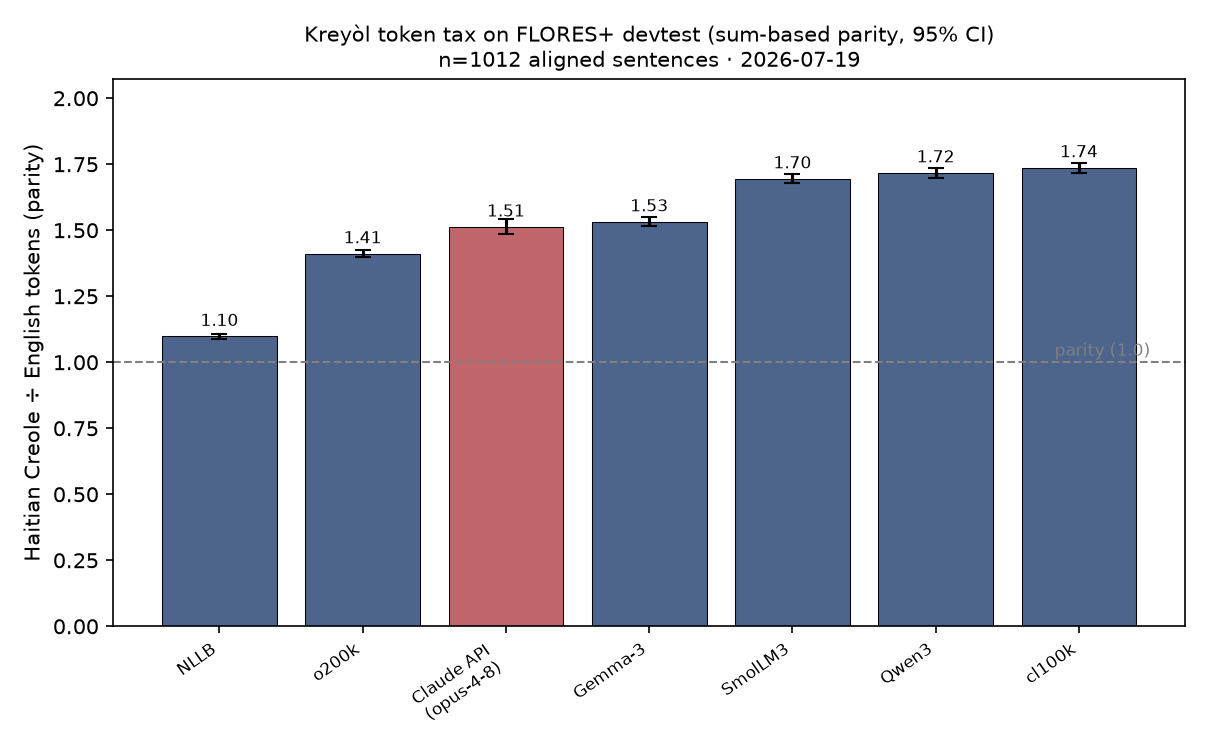
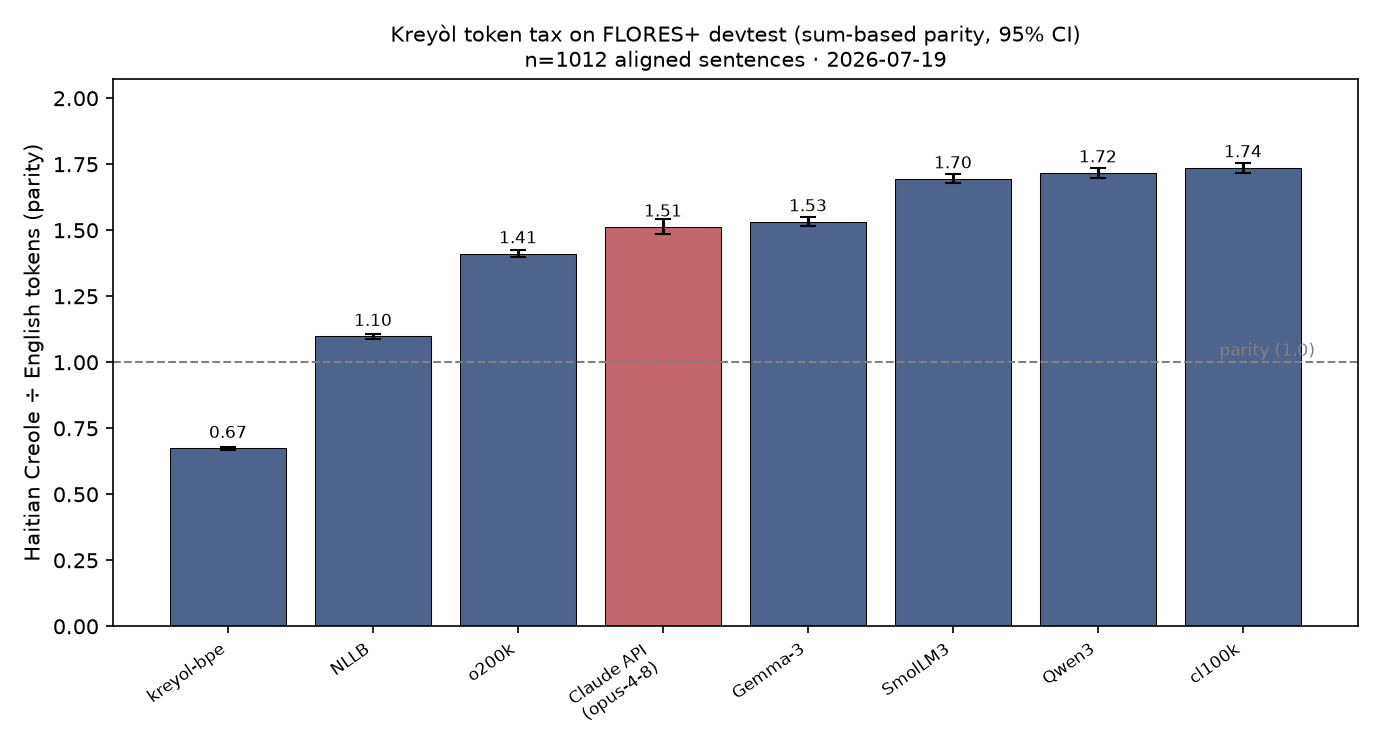
Workstream C: add our Kreyòl tokenizer's fertility row (ht/en 0.67x)
Re-ran fertility with kreyol-bpe (Workstream B) added. Our Kreyòl-first tokenizer
lands at ht/en 0.674 (95% CI [0.668, 0.681]) and ht/fr 0.567 ([0.561, 0.573]) on
FLORES+ devtest — it FLIPS the token tax: identical content costs fewer tokens in
Kreyòl than in English (1.29 vs 2.01 tokens/word). Updated results.csv, the parity
chart (now 8 rows, ours leftmost), and fertility.md's headline. Llama-3 retried but
still gated (403) — SmolLM3 stands in as the Llama-3-family tokenizer note.

diff --git a/ml/fertility/report.py b/ml/fertility/report.py
@@ -70,7 +70,17 @@ def write_markdown(rows, petrov, flores, words, skipped, path, repo_root, log):
       f"**{worst['parity_ht_en']:.2f}× more tokens in Haitian Creole than in English** on "
       f"`{_plain(worst['label'])}` and as little as **{best['parity_ht_en']:.2f}×** on "
       f"`{_plain(best['label'])}`. Full parity table below, with paired-bootstrap 95% CIs.\n")
-    known = {"cl100k", "NLLB"}  # already have published Petrov figures (which we reproduce)
+    ours = next((r for r in rows if r["label"].startswith("kreyol-bpe")), None)
+    if ours is not None:
+        flips = ours["parity_ht_en"] < 1.0
+        A(f"**Our Kreyòl tokenizer (`{_plain(ours['label'])}`, Workstream B) lands at ht/en parity "
+          f"{ours['parity_ht_en']:.2f}× (95% CI [{ours['ci95_lo_ht_en']:.2f}, {ours['ci95_hi_ht_en']:.2f}]) "
+          f"and ht/fr {ours['parity_ht_fr']:.2f}× ([{ours['ci95_lo_ht_fr']:.2f}, {ours['ci95_hi_ht_fr']:.2f}]).** "
+          + ("It **flips the tax**: identical content now costs *fewer* tokens in Kreyòl than in "
+             "English — the point of training a Kreyòl-first vocabulary.\n" if flips else
+             "That is the lowest Kreyòl token tax of any tokenizer measured here — a Kreyòl-first "
+             "vocabulary nearly erases the gap.\n"))
+    known = {"cl100k", "NLLB", "kreyol-bpe"}  # Petrov-published (reproduced) + our own (obviously first)
     novel = [r["label"].split(" (")[0] for r in rows
              if r["kind"] == "tokenizer" and r["label"].split(" (")[0] not in known]
     A("To our knowledge these are among the **first published Haitian-Creole fertility numbers we "

diff --git a/ml/fertility/config.py b/ml/fertility/config.py
@@ -58,7 +58,7 @@ HF_TOKENIZERS = [
 
 # Our own Kreyòl BPE tokenizer (Workstream B output). Included automatically if
 # present; absent for now (Workstream B not yet run).
-OUR_TOKENIZER_PATH = "tokenizer/tokenizer.json"
+OUR_TOKENIZER_PATH = "tokenizer/kreyol-bpe/tokenizer.json"
 OUR_TOKENIZER_LABEL = "kreyol-bpe (ours, Workstream B)"
 
 # --- Claude API measurement (separately labeled; NOT a tokenizer count) -------

diff --git a/ml/reports/fertility.md b/ml/reports/fertility.md
@@ -4,9 +4,11 @@
 
 ## Headline
 
-On 1012 aligned FLORES+ `devtest` sentences, the same content costs **1.74× more tokens in Haitian Creole than in English** on `cl100k` and as little as **1.10×** on `NLLB` — on which Kreyòl is actually *cheaper than French* (ht/fr **0.81**). Full parity table below, with paired-bootstrap 95% CIs.
+On 1012 aligned FLORES+ `devtest` sentences, the same content costs **1.74× more tokens in Haitian Creole than in English** on `cl100k` and as little as **0.67×** on `kreyol-bpe`. Full parity table below, with paired-bootstrap 95% CIs.
 
-**This extends Petrov et al. (2023)** ([arXiv:2305.15425](https://arxiv.org/abs/2305.15425)), who measured Haitian Creole through the cl100k-era tokenizers (cl100k, NLLB, Llama 1/2, mT5, …) — our cl100k and NLLB rows reproduce theirs. The new contribution is the post-2023 generation: **as of 2026-07-19 we could find no previously published Haitian-Creole parity numbers for o200k, Gemma-3, Qwen3, SmolLM3/Llama-3, or any Claude API estimate** — those rows are, to our knowledge, first published here. ("First published we could find," not "first-ever.")
+**Our Kreyòl tokenizer (`kreyol-bpe`, Workstream B) lands at ht/en parity 0.67× (95% CI [0.67, 0.68]) and ht/fr 0.57× ([0.56, 0.57]).** It **flips the tax**: identical content now costs *fewer* tokens in Kreyòl than in English — the point of training a Kreyòl-first vocabulary.
+
+To our knowledge these are among the **first published Haitian-Creole fertility numbers we could find (as of 2026-07-19)** for several modern tokenizers measured here — e.g. o200k, Gemma-3, Qwen3, SmolLM3 — and for the Claude `count_tokens` API. (cl100k and NLLB already have published figures via Petrov et al.; ours reproduce them.) We say "first published we could find," not "first-ever."
 
 ## Pipeline validation (Petrov et al. 2023)
 
@@ -41,8 +43,7 @@ Before measuring anything new, we reproduce Petrov et al.'s published Haitian/En
 | Qwen3 (Qwen/Qwen3-1.7B) | `Qwen/Qwen3-1.7B` | `70d244cc86ccca08cf5af4e1e306ecf908b1ad5e` |
 | NLLB (facebook/nllb-200-distilled-600M) | `facebook/nllb-200-distilled-600M` | `f8d333a098d19b4fd9a8b18f94170487ad3f821d` |
 | SmolLM3 (HuggingFaceTB/SmolLM3-3B) | `HuggingFaceTB/SmolLM3-3B` | `a07cc9a04f16550a088caea529712d1d335b0ac1` |
-
-> **Note:** SmolLM3's tokenizer is the Llama-3 family (vocab size 128,256 — SmolLM3 adopted the Llama 3.2 tokenizer), so its row very likely previews the pending gated Llama-3 row. Verify identity (same encoding of a probe set) when the Meta gate opens, then either merge or report both.
+| kreyol-bpe (ours, Workstream B) | `tokenizer/kreyol-bpe/tokenizer.json` | `local` |
 | claude_api_input_parity (claude-opus-4-8) | `claude-opus-4-8` | `claude-opus-4-8` |
 
 ## Results — parity (Haitian Creole ÷ English)
@@ -50,7 +51,8 @@ Before measuring anything new, we reproduce Petrov et al.'s published Haitian/En
 ![Kreyòl token tax parity](fertility_parity.png)
 
 | Tokenizer / API | ht/en parity | 95% CI | % premium | ht/fr parity | ht tok/word | word survival | sents/8k (ht vs en) |
-|---|--:|:--:|--:|--:|--:|--:|:--:|
+|---|--:|:--:|--:|--:|:--:|--:|
+| kreyol-bpe (ours, Workstream B) | **0.674** | [0.668, 0.681] | -32.6% | 0.567 | 1.286 | 50/50 | 281.9 vs 190.1 |
 | NLLB (facebook/nllb-200-distilled-600M) | **1.099** | [1.089, 1.108] | +9.9% | 0.813 | 1.472 | 50/50 | 246.3 vs 270.6 |
 | o200k (GPT-4o-era) | **1.411** | [1.398, 1.425] | +41.1% | 1.032 | 1.659 | 47/50 | 218.6 vs 308.5 |
 | claude_api_input_parity (claude-opus-4-8) | **1.513** | [1.485, 1.541] | +51.3% | 1.022 | 2.839 | — | 127.7 vs 193.2 |
@@ -65,6 +67,7 @@ Per-sentence ratio spread (ht/en):
 
 | Tokenizer / API | p10 | p50 | p90 |
 |---|--:|--:|--:|
+| kreyol-bpe (ours, Workstream B) | 0.5476 | 0.6735 | 0.8285 |
 | NLLB (facebook/nllb-200-distilled-600M) | 0.9167 | 1.1053 | 1.3158 |
 | o200k (GPT-4o-era) | 1.1504 | 1.4065 | 1.7368 |
 | claude_api_input_parity (claude-opus-4-8) | — | — | — |
@@ -85,9 +88,8 @@ Shown **only** for tokenizers/APIs tied to an actually-priced API. Prices are an
 
 ## Skipped items & flags
 
-- **SKIPPED Llama-3 (meta-llama/Llama-3.2-3B)**: gated repo, access approval still pending (403). The script is re-runnable to fill this row later — and per the note above, the SmolLM3 row likely already previews it (same tokenizer family).
+- **SKIPPED Llama-3 (meta-llama/Llama-3.2-3B)** (`meta-llama/Llama-3.2-3B`): OSError: You are trying to access a gated repo. Make sure to have access to it at https://huggingface.co/meta-llama/Llama-3.2-3B. 403 Client Error. (Request ID: Root=1-6. The script is re-runnable to fill this row later.
 - **No authored-Kreyòl set measured.** The translated-vs-authored fertility check (FLORES's Haitian side is itself translated) requires a proverb/authored corpus; none exists in the repo yet. **TODO:** add an authored-Kreyòl set and re-run for the translationese comparison.
-- **Our Kreyòl BPE not included** (`tokenizer/tokenizer.json` absent — Workstream B not yet run). Expected to land near or below 1.0× (a Kreyòl-trained vocab flips the tax by making *English* the inefficient side) — but that's a hypothesis to measure, not a guarantee. Re-run once trained.
 
 ## Reproduce
 

diff --git a/ml/fertility/README.md b/ml/fertility/README.md
@@ -49,4 +49,6 @@ cache). Only aggregate numbers (`results.csv`, the report, the chart) are commit
   to fill it in once access is granted.
 - **No authored-Kreyòl set** yet, so the translated-vs-authored (translationese) comparison is a
   TODO.
-- **Our Kreyòl BPE** is included automatically once `tokenizer/tokenizer.json` exists (Workstream B).
+- **Our Kreyòl BPE** (`tokenizer/kreyol-bpe/tokenizer.json`, Workstream B) is now included — it
+  lands at **ht/en 0.67× / ht/fr 0.57×**, flipping the token tax (Kreyòl costs fewer tokens than
+  English). The script auto-detects it if the file exists.